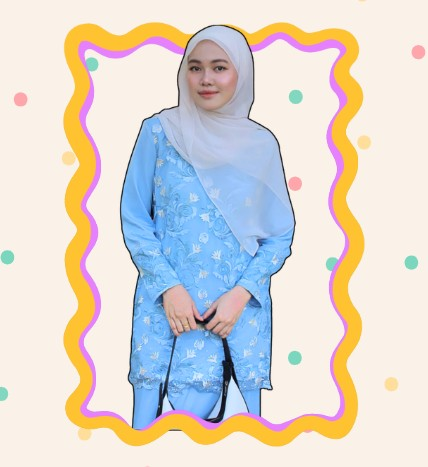
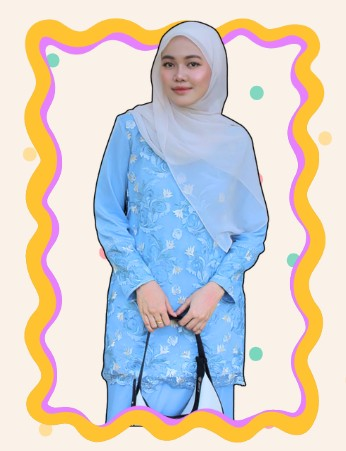
Committee: updated photo for Anis Nabihah

diff --git a/index.html b/index.html
@@ -14,7 +14,7 @@
 <link rel="preconnect" href="https://fonts.googleapis.com">
 <link rel="preconnect" href="https://fonts.gstatic.com" crossorigin>
 <link href="https://fonts.googleapis.com/css2?family=Baloo+2:wght@500;600;700;800&family=Nunito:wght@400;600;700;800&family=Gaegu:wght@700&display=swap" rel="stylesheet">
-<link rel="stylesheet" href="css/style.css?v=20261105f">
+<link rel="stylesheet" href="css/style.css?v=20261105g">
 </head>
 <body>
 <div class="blob-field">
@@ -518,7 +518,7 @@
 <script src="https://www.gstatic.com/firebasejs/10.12.2/firebase-app-compat.js" integrity="sha384-AQ3POAMqIhwS81FrUH95ekxqBZHeP5tG2JfEL3+7GuTtfRLWnrRh32UxwzM+//A9" crossorigin="anonymous"></script>
 <script src="https://www.gstatic.com/firebasejs/10.12.2/firebase-auth-compat.js" integrity="sha384-TnlRYaR4JYz/lpaGuaiU61PjNberSA4vjLjtF+oRC/IkohkJqnWxw5EmDSOt1vA1" crossorigin="anonymous"></script>
 <script src="https://www.gstatic.com/firebasejs/10.12.2/firebase-firestore-compat.js" integrity="sha384-qn4Jh88HhJA8dplNQyGjOh9OGI4izVhrfj/qIFgaKcdgOE06pXqIKGlsCILZcLAC" crossorigin="anonymous"></script>
-<script src="js/firebase-config.js?v=20261105f"></script>
-<script src="js/script.js?v=20261105f"></script>
+<script src="js/firebase-config.js?v=20261105g"></script>
+<script src="js/script.js?v=20261105g"></script>
 </body>
 </html>

diff --git a/js/script.js b/js/script.js
@@ -346,7 +346,7 @@ window.addEventListener('hashchange', route);
 var COMMITTEE = [
   {role:'Advisors', tier:'top', people:[{n:'Puan Nurul Asikin binti Roslan'}, {n:'Encik Nazrul Ikhwan bin Nizam'}]},
   {role:'Project Manager', tier:'pm', people:[{n:'Adam Ridhwan bin Safie'}]},
-  {role:'Project Assistant', tier:'lead', people:[{n:'Anis Nabihah binti Jalaludin Albakri', photo:'anis.jpg?v=2'}]},
+  {role:'Project Assistant', tier:'lead', people:[{n:'Anis Nabihah binti Jalaludin Albakri', photo:'anis.jpg?v=3'}]},
   {role:'Secretary', tier:'lead', people:[{n:'Nur Yasmin Rasyiqah binti Mohd Yazriha'}]},
   {role:'Treasurer', tier:'lead', people:[{n:'Muhammad Hanif Danial bin Jurayme'}]},
   {role:'Head of Facilitator', tier:'lead', people:[{n:'Muhammad Hidayatullah bin Zahari'}]},
